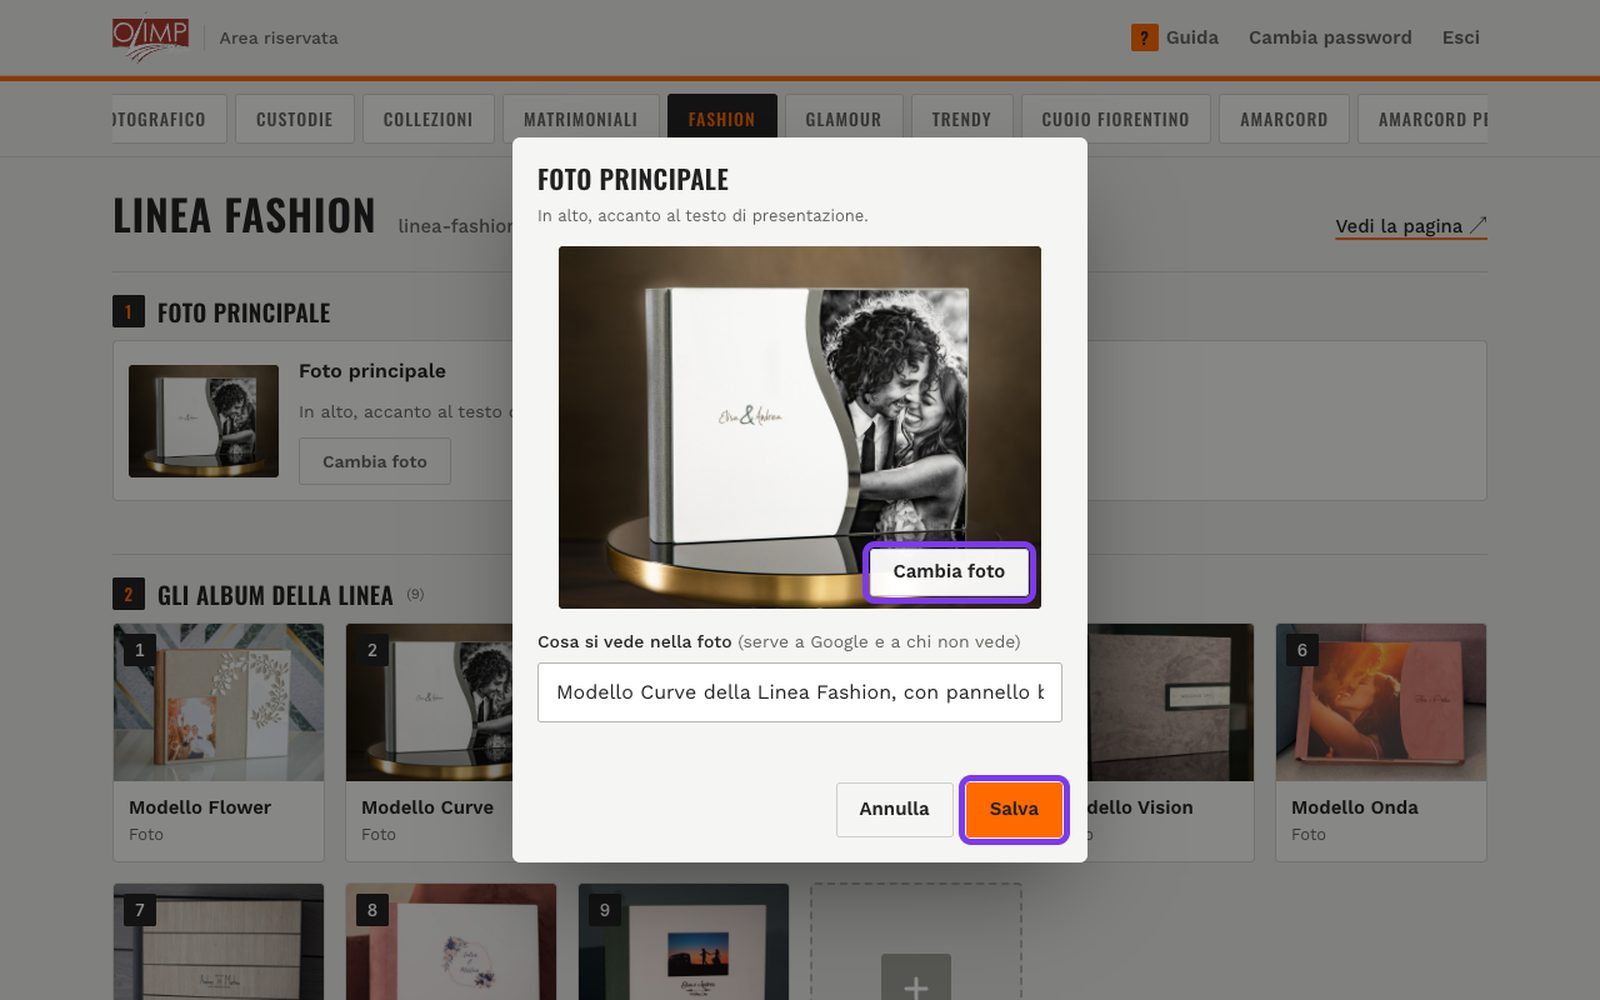
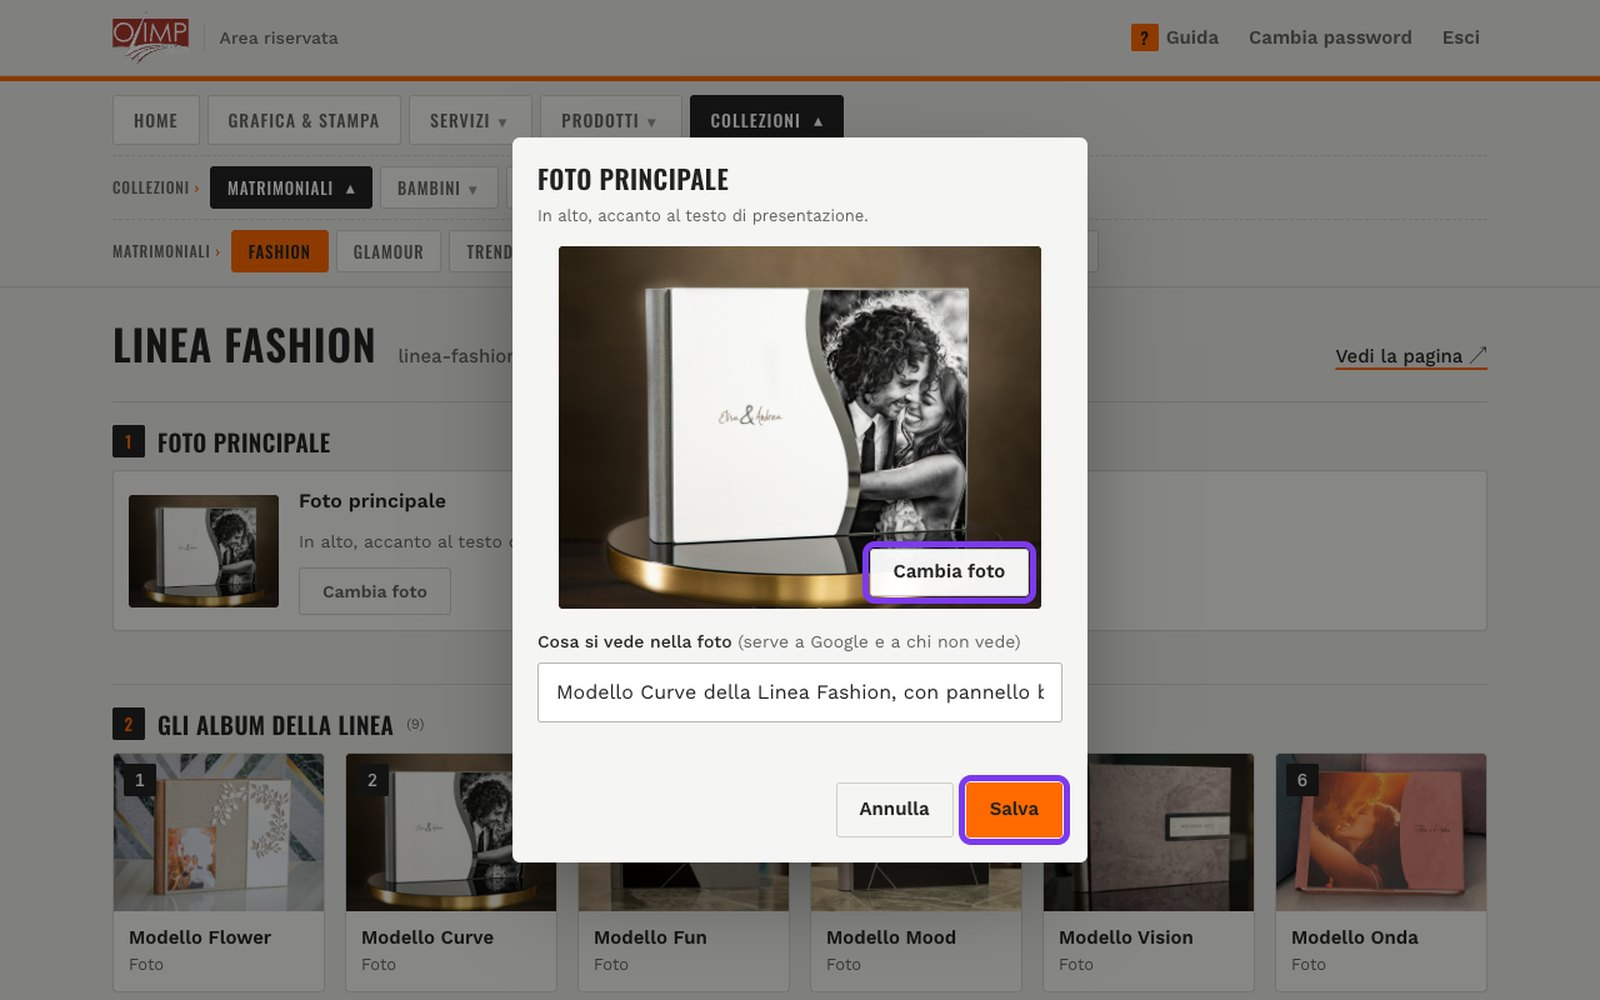
Area riservata: menu delle pagine a livelli come la navbar del sito (Collezioni → Matrimoniali → linee) e schermate della guida rifatte; Linea Fashion allineata all'ordine salvato dall'area riservata; versione 3.10 nel LEGGIMI

diff --git a/area-riservata.html b/area-riservata.html
@@ -247,6 +247,20 @@ body{font-family:var(--testo)}
 input[type=text],input[type=password]{border-radius:3px;background:#fff;border-color:#b9b9b3}
 .tab{border-radius:3px;font:500 14px/1 var(--head);text-transform:uppercase;letter-spacing:.07em}
 .tab[aria-selected="true"]{background:var(--ink);border-color:var(--ink);color:var(--acc)}
+/* menu a livelli come la navbar del sito: Collezioni → Matrimoniali → Fashion */
+.tabs .wrap{display:block;overflow:visible;padding:8px 0}
+.tabs .riga{display:flex;align-items:center;flex-wrap:wrap;gap:6px;padding:3px 0}
+/* sul telefono il menu non resta attaccato in alto: con le righe che vanno a capo coprirebbe troppo */
+@media (max-width:699px){.tabs{position:static}}
+.tabs .riga+.riga{border-top:1px dashed var(--line);margin-top:5px;padding-top:8px}
+.tabs .riga .dove{flex:none;font:500 12px/1 var(--head);text-transform:uppercase;letter-spacing:.07em;color:var(--mute);padding-right:2px}
+.tabs .riga .dove::after{content:" ›";color:var(--acc-d)}
+.tab .giu{display:inline-block;margin-left:6px;font-size:10px;opacity:.65;transition:transform 150ms ease}
+.tab.aperta{background:var(--ink);border-color:var(--ink);color:#fff}
+.tab.aperta .giu,.tab[aria-selected="true"] .giu{transform:rotate(180deg);opacity:1}
+.tabs .riga.sotto .tab{min-height:34px;padding:0 13px;font-size:13px}
+.tabs .riga.sotto .tab[aria-selected="true"]{background:var(--acc);border-color:var(--acc);color:var(--ink)}
+.tabs .riga.sotto .tab.aperta{background:var(--ink);border-color:var(--ink);color:#fff}
 .vedi{color:var(--ink);text-decoration:underline;text-decoration-color:var(--acc);text-decoration-thickness:2px;text-underline-offset:4px}
 .num{border-radius:2px;background:var(--ink);color:var(--acc);font-family:var(--head)}
 .slot{border-radius:4px}
@@ -345,7 +359,7 @@ input[type=text],input[type=password]{border-radius:3px;background:#fff;border-c
 
 <!-- pagine del sito: le sezioni le scrive lo script (PAGINE) -->
 <main id="vista-lavori" hidden>
-  <nav class="tabs" aria-label="Pagine del sito"><div class="wrap" id="tabs" role="tablist"></div></nav>
+  <nav class="tabs" aria-label="Pagine del sito"><div class="wrap" id="tabs"></div></nav>
   <div class="wrap" id="pagine">
     <p class="stato" id="stato" aria-live="polite"></p>
   </div>
@@ -443,36 +457,36 @@ input[type=text],input[type=password]{border-radius:3px;background:#fff;border-c
     <a href="#g-aggiungere">Aggiungere</a><a href="#g-riordinare">Riordinare</a><a href="#g-rinominare">Rinominare</a><a href="#g-eliminare">Eliminare</a><a href="#g-fisse">Foto fisse</a>
   </nav>
   <div class="g-corpo">
-    <p class="g-intro">In alto c'è una scheda per ogni pagina del sito. Le modifiche valgono solo per la pagina in cui le fai e si vedono online entro qualche minuto dal salvataggio. Questa guida si riapre quando vuoi dal pulsante <b>Guida</b> in alto. Clicca una schermata per ingrandirla. Dal telefono funziona allo stesso modo: al posto del clic si tocca con il dito.</p>
+    <p class="g-intro">In alto c'è il menu delle pagine, ordinato come quello del sito: Home, Grafica &amp; Stampa, Servizi, Prodotti e Collezioni; scegliendo una voce con la freccetta compaiono sotto le sue pagine. Le modifiche valgono solo per la pagina in cui le fai e si vedono online entro qualche minuto dal salvataggio. Questa guida si riapre quando vuoi dal pulsante <b>Guida</b> in alto. Clicca una schermata per ingrandirla. Dal telefono funziona allo stesso modo: al posto del clic si tocca con il dito.</p>
     <section class="g-sez" id="g-aggiungere" aria-labelledby="g-aggiungere-t">
       <h3 id="g-aggiungere-t">Aggiungere una foto</h3>
-      <div class="g-passo"><span class="num">1</span><p>In alto scegli la <b>pagina</b> del sito da modificare, per esempio <b>Fashion</b>.</p><a href="images/guida/tab.jpg" class="g-zoom" data-punti="41.25,8.75,7.66,6.25" aria-label="Ingrandisci la schermata"><img src="images/guida/tab.jpg" alt="La fila di schede in alto con Fashion evidenziato" width="1600" height="1000" loading="lazy" decoding="async"></a></div>
-      <div class="g-passo"><span class="num">2</span><p>Clicca la casella grigia con il <b>+</b>, in fondo alle foto della galleria (per esempio <b>Gli album della linea</b>). Si apre la finestra per scegliere il file: scegli la foto e clicca <b>Apri</b>.</p><a href="images/guida/piu.jpg" class="g-zoom" data-punti="50.16,50.50,14.06,26.25" aria-label="Ingrandisci la schermata"><img src="images/guida/piu.jpg" alt="La casella con il + in fondo alla galleria" width="1600" height="1000" loading="lazy" decoding="async"></a></div>
-      <div class="g-passo"><span class="num">3</span><p>Controlla l'anteprima, scrivi il <b>titolo</b> (il nome del modello, che compare sotto la foto) e clicca <b>Aggiungi</b>. Se hai sbagliato foto, clicca <b>Cambia foto</b>.</p><a href="images/guida/nuova.jpg" class="g-zoom" data-punti="33.12,67.00,33.59,7.25;58.13,79.00,8.59,6.75" aria-label="Ingrandisci la schermata"><img src="images/guida/nuova.jpg" alt="La finestra per aggiungere una foto, con il titolo scritto" width="1600" height="1000" loading="lazy" decoding="async"></a></div>
-      <div class="g-passo"><span class="num">4</span><p>La foto nuova lampeggia in arancio. Se vuoi spostarla, <b>tieni premuto il clic sulla foto e trascinala</b> nel posto che preferisci; altrimenti resta ultima. Poi clicca <b>Conferma e salva</b> nella barra in basso.</p><a href="images/guida/nuova-sel.jpg" class="g-zoom" data-punti="50.16,50.50,14.06,26.25;57.19,89.75,13.75,6.75" aria-label="Ingrandisci la schermata"><img src="images/guida/nuova-sel.jpg" alt="La foto nuova evidenziata e il pulsante Conferma e salva" width="1600" height="1000" loading="lazy" decoding="async"></a></div>
-      <div class="g-passo"><span class="num">5</span><p>Si apre la finestra del salvataggio: aspetta che la barra arrivi in fondo e clicca <b>OK</b>. Il sito si aggiorna da solo entro qualche minuto.</p><a href="images/guida/salvato.jpg" class="g-zoom" data-punti="44.84,60.00,10.16,6.75" aria-label="Ingrandisci la schermata"><img src="images/guida/salvato.jpg" alt="La finestra Salvataggio riuscito correttamente con il pulsante OK" width="1600" height="1000" loading="lazy" decoding="async"></a></div>
+      <div class="g-passo"><span class="num">1</span><p>In alto scegli la <b>pagina</b> del sito da modificare, per esempio <b>Collezioni</b>, poi <b>Matrimoniali</b>, poi <b>Fashion</b>.</p><a href="images/guida/tab.jpg" class="g-zoom" data-punti="42.66,8.75,10.55,6.50;12.66,15.88,11.09,5.75;13.98,22.25,7.03,5.75" aria-label="Ingrandisci la schermata"><img src="images/guida/tab.jpg" alt="Il menu delle pagine in alto con Collezioni, Matrimoniali e Fashion evidenziati" width="1600" height="1000" loading="lazy" decoding="async"></a></div>
+      <div class="g-passo"><span class="num">2</span><p>Clicca la casella grigia con il <b>+</b>, in fondo alle foto della galleria (per esempio <b>Gli album della linea</b>). Si apre la finestra per scegliere il file: scegli la foto e clicca <b>Apri</b>.</p><a href="images/guida/piu.jpg" class="g-zoom" data-punti="50.16,63.38,14.22,26.50" aria-label="Ingrandisci la schermata"><img src="images/guida/piu.jpg" alt="La casella con il + in fondo alla galleria" width="1600" height="1000" loading="lazy" decoding="async"></a></div>
+      <div class="g-passo"><span class="num">3</span><p>Controlla l'anteprima, scrivi il <b>titolo</b> (il nome del modello, che compare sotto la foto) e clicca <b>Aggiungi</b>. Se hai sbagliato foto, clicca <b>Cambia foto</b>.</p><a href="images/guida/nuova.jpg" class="g-zoom" data-punti="33.12,66.88,33.75,7.50;58.13,78.88,8.75,7.00" aria-label="Ingrandisci la schermata"><img src="images/guida/nuova.jpg" alt="La finestra per aggiungere una foto, con il titolo scritto" width="1600" height="1000" loading="lazy" decoding="async"></a></div>
+      <div class="g-passo"><span class="num">4</span><p>La foto nuova lampeggia in arancio. Se vuoi spostarla, <b>tieni premuto il clic sulla foto e trascinala</b> nel posto che preferisci; altrimenti resta ultima. Poi clicca <b>Conferma e salva</b> nella barra in basso.</p><a href="images/guida/nuova-sel.jpg" class="g-zoom" data-punti="79.22,37.38,14.22,25.50;57.19,89.75,13.91,7.00" aria-label="Ingrandisci la schermata"><img src="images/guida/nuova-sel.jpg" alt="La foto nuova evidenziata e il pulsante Conferma e salva" width="1600" height="1000" loading="lazy" decoding="async"></a></div>
+      <div class="g-passo"><span class="num">5</span><p>Si apre la finestra del salvataggio: aspetta che la barra arrivi in fondo e clicca <b>OK</b>. Il sito si aggiorna da solo entro qualche minuto.</p><a href="images/guida/salvato.jpg" class="g-zoom" data-punti="44.84,60.00,10.31,7.00" aria-label="Ingrandisci la schermata"><img src="images/guida/salvato.jpg" alt="La finestra Salvataggio riuscito correttamente con il pulsante OK" width="1600" height="1000" loading="lazy" decoding="async"></a></div>
     </section>
     <section class="g-sez" id="g-riordinare" aria-labelledby="g-riordinare-t">
       <h3 id="g-riordinare-t">Riordinare le foto</h3>
-      <div class="g-passo"><span class="num">1</span><p>Clicca la foto da spostare: si accende in arancio e le altre diventano più chiare.</p><a href="images/guida/scegli.jpg" class="g-zoom" data-punti="35.62,24.50,14.06,25.25" aria-label="Ingrandisci la schermata"><img src="images/guida/scegli.jpg" alt="Una foto selezionata in arancio, le altre più chiare" width="1600" height="1000" loading="lazy" decoding="async"></a></div>
-      <div class="g-passo"><span class="num">2</span><p><b>Tieni premuto il clic sulla foto e trascinala</b> dove vuoi, dentro la stessa galleria. Il numero in alto a sinistra indica il posto. Poi clicca <b>Conferma</b>.</p><a href="images/guida/spostata.jpg" class="g-zoom" data-punti="6.56,24.50,14.06,25.25;61.56,89.75,9.38,6.75" aria-label="Ingrandisci la schermata"><img src="images/guida/spostata.jpg" alt="La foto spostata al posto 1 e il pulsante Conferma" width="1600" height="1000" loading="lazy" decoding="async"></a></div>
+      <div class="g-passo"><span class="num">1</span><p>Clicca la foto da spostare: si accende in arancio e le altre diventano più chiare.</p><a href="images/guida/scegli.jpg" class="g-zoom" data-punti="35.62,37.38,14.22,25.50" aria-label="Ingrandisci la schermata"><img src="images/guida/scegli.jpg" alt="Una foto selezionata in arancio, le altre più chiare" width="1600" height="1000" loading="lazy" decoding="async"></a></div>
+      <div class="g-passo"><span class="num">2</span><p><b>Tieni premuto il clic sulla foto e trascinala</b> dove vuoi, dentro la stessa galleria. Il numero in alto a sinistra indica il posto. Poi clicca <b>Conferma</b>.</p><a href="images/guida/spostata.jpg" class="g-zoom" data-punti="6.56,37.38,14.22,25.50;61.56,89.75,9.53,7.00" aria-label="Ingrandisci la schermata"><img src="images/guida/spostata.jpg" alt="La foto spostata al posto 1 e il pulsante Conferma" width="1600" height="1000" loading="lazy" decoding="async"></a></div>
       <p class="g-nota">Hai cambiato idea? Clicca <b>Annulla</b> e la foto torna dov'era, senza salvare nulla. Finché non scegli <b>Conferma</b> o <b>Annulla</b> il resto della pagina è bloccato: se clicchi altrove, la barra in basso lampeggia per ricordartelo.</p>
     </section>
     <section class="g-sez" id="g-rinominare" aria-labelledby="g-rinominare-t">
       <h3 id="g-rinominare-t">Rinominare una foto</h3>
-      <div class="g-passo"><span class="num">1</span><p>Clicca la foto, poi clicca <b>Modifica o elimina</b> nella barra in basso.</p><a href="images/guida/modifica.jpg" class="g-zoom" data-punti="35.16,89.75,14.37,6.75" aria-label="Ingrandisci la schermata"><img src="images/guida/modifica.jpg" alt="La barra in basso con il pulsante Modifica o elimina" width="1600" height="1000" loading="lazy" decoding="async"></a></div>
-      <div class="g-passo"><span class="num">2</span><p>Correggi il <b>titolo</b> e clicca <b>Salva</b>. Da qui puoi anche cambiare la foto con <b>Cambia foto</b>.</p><a href="images/guida/rinomina.jpg" class="g-zoom" data-punti="33.12,65.25,33.59,7.25;60.00,77.25,6.72,6.75" aria-label="Ingrandisci la schermata"><img src="images/guida/rinomina.jpg" alt="La finestra di modifica con il titolo cambiato e il pulsante Salva" width="1600" height="1000" loading="lazy" decoding="async"></a></div>
+      <div class="g-passo"><span class="num">1</span><p>Clicca la foto, poi clicca <b>Modifica o elimina</b> nella barra in basso.</p><a href="images/guida/modifica.jpg" class="g-zoom" data-punti="35.16,89.75,14.45,7.00" aria-label="Ingrandisci la schermata"><img src="images/guida/modifica.jpg" alt="La barra in basso con il pulsante Modifica o elimina" width="1600" height="1000" loading="lazy" decoding="async"></a></div>
+      <div class="g-passo"><span class="num">2</span><p>Correggi il <b>titolo</b> e clicca <b>Salva</b>. Da qui puoi anche cambiare la foto con <b>Cambia foto</b>.</p><a href="images/guida/rinomina.jpg" class="g-zoom" data-punti="33.12,65.25,33.75,7.50;59.92,77.25,6.95,7.00" aria-label="Ingrandisci la schermata"><img src="images/guida/rinomina.jpg" alt="La finestra di modifica con il titolo cambiato e il pulsante Salva" width="1600" height="1000" loading="lazy" decoding="async"></a></div>
     </section>
     <section class="g-sez" id="g-eliminare" aria-labelledby="g-eliminare-t">
       <h3 id="g-eliminare-t">Eliminare una foto</h3>
       <div class="g-passo solo-testo"><span class="num">1</span><p>Clicca la foto, poi clicca <b>Modifica o elimina</b> nella barra in basso (come per rinominare).</p></div>
-      <div class="g-passo"><span class="num">2</span><p>Clicca <b>Elimina</b> in basso a sinistra nella finestra. Il pulsante diventa rosso con scritto <b>Sì, elimina</b>: cliccalo di nuovo per confermare.</p><a href="images/guida/elimina.jpg" class="g-zoom" data-punti="33.12,77.25,9.84,6.75" aria-label="Ingrandisci la schermata"><img src="images/guida/elimina.jpg" alt="Il pulsante rosso Sì, elimina" width="1600" height="1000" loading="lazy" decoding="async"></a></div>
+      <div class="g-passo"><span class="num">2</span><p>Clicca <b>Elimina</b> in basso a sinistra nella finestra. Il pulsante diventa rosso con scritto <b>Sì, elimina</b>: cliccalo di nuovo per confermare.</p><a href="images/guida/elimina.jpg" class="g-zoom" data-punti="33.12,77.25,9.92,7.00" aria-label="Ingrandisci la schermata"><img src="images/guida/elimina.jpg" alt="Il pulsante rosso Sì, elimina" width="1600" height="1000" loading="lazy" decoding="async"></a></div>
       <p class="g-nota rossa">L'eliminazione è definitiva: la foto sparisce dal sito. Se non clicchi «Sì, elimina» non succede nulla.</p>
     </section>
     <section class="g-sez" id="g-fisse" aria-labelledby="g-fisse-t">
       <h3 id="g-fisse-t">Cambiare le foto fisse</h3>
-      <div class="g-passo"><span class="num">1</span><p>Le altre foto delle pagine (la foto principale accanto al testo, i riquadri delle linee e dei prodotti, le strisce delle collezioni) hanno un posto fisso: clicca <b>Cambia foto</b> accanto a quella da cambiare.</p><a href="images/guida/fissa.jpg" class="g-zoom" data-punti="18.28,43.00,10.31,6.00" aria-label="Ingrandisci la schermata"><img src="images/guida/fissa.jpg" alt="Una foto fissa con il pulsante Cambia foto" width="1600" height="1000" loading="lazy" decoding="async"></a></div>
-      <div class="g-passo"><span class="num">2</span><p>Nella finestra clicca <b>Cambia foto</b> e scegli quella nuova. Scrivi in breve cosa si vede (serve a Google) e clicca <b>Salva</b>.</p><a href="images/guida/fissa-scheda.jpg" class="g-zoom" data-punti="53.91,54.25,10.78,6.00;60.00,77.50,6.72,6.75" aria-label="Ingrandisci la schermata"><img src="images/guida/fissa-scheda.jpg" alt="La finestra per cambiare una foto, con Cambia foto e Salva evidenziati" width="1600" height="1000" loading="lazy" decoding="async"></a></div>
+      <div class="g-passo"><span class="num">1</span><p>Le altre foto delle pagine (la foto principale accanto al testo, i riquadri delle linee e dei prodotti, le strisce delle collezioni) hanno un posto fisso: clicca <b>Cambia foto</b> accanto a quella da cambiare.</p><a href="images/guida/fissa.jpg" class="g-zoom" data-punti="18.20,56.00,10.47,6.25" aria-label="Ingrandisci la schermata"><img src="images/guida/fissa.jpg" alt="Una foto fissa con il pulsante Cambia foto" width="1600" height="1000" loading="lazy" decoding="async"></a></div>
+      <div class="g-passo"><span class="num">2</span><p>Nella finestra clicca <b>Cambia foto</b> e scegli quella nuova. Scrivi in breve cosa si vede (serve a Google) e clicca <b>Salva</b>.</p><a href="images/guida/fissa-scheda.jpg" class="g-zoom" data-punti="53.91,54.12,10.86,6.25;59.92,77.50,6.95,7.00" aria-label="Ingrandisci la schermata"><img src="images/guida/fissa-scheda.jpg" alt="La finestra per cambiare una foto, con Cambia foto e Salva evidenziati" width="1600" height="1000" loading="lazy" decoding="async"></a></div>
       <p class="g-nota">Ogni pagina è indipendente: una foto cambiata in una pagina resta uguale in tutte le altre (per esempio la striscia «Album eventi» della Home e quella di Collezioni si cambiano separatamente).</p>
     </section>
   </div>
@@ -600,14 +614,43 @@ input[type=text],input[type=password]{border-radius:3px;background:#fff;border-c
     };
   }
 
-  /* ---------- schede delle pagine ---------- */
+  /* ---------- schede delle pagine: menu a livelli come la navbar del sito ----------
+     Prima riga: Home, Grafica & Stampa, Servizi, Prodotti, Collezioni. Scegliendo una pagina che ha
+     sottopagine compare sotto la riga successiva (es. Collezioni → Matrimoniali → le linee). */
+  var GENITORE = {
+    'sezione-sposi.html': 'servizi.html', 'sezione-fotografi.html': 'servizi.html',
+    'fotolibro-professionale.html': 'prodotti.html', 'album-tradizionale-professionale.html': 'prodotti.html',
+    'prodotti-studio-fotografico.html': 'prodotti.html', 'custodie-per-album.html': 'prodotti.html',
+    'album-matrimoniali.html': 'collezioni.html', 'album-bambini.html': 'collezioni.html',
+    'album-comunione.html': 'collezioni.html', 'album-eventi.html': 'collezioni.html',
+    'linea-fashion.html': 'album-matrimoniali.html', 'linea-glamour.html': 'album-matrimoniali.html',
+    'linea-trendy.html': 'album-matrimoniali.html', 'linea-cuoio-fiorentino.html': 'album-matrimoniali.html',
+    'linea-cuoio-amarcord-islandese.html': 'album-matrimoniali.html',
+    'linea-cuoio-amarcord-islandese-personalizzato.html': 'album-matrimoniali.html',
+    'album-bambini-deluxe.html': 'album-bambini.html', 'album-bambini-baby.html': 'album-bambini.html',
+    'album-bambini-new-born.html': 'album-bambini.html'
+  };
+  var ORDINE_PRIMA = ['index.html', 'grafica-stampa.html', 'servizi.html', 'prodotti.html', 'collezioni.html'];
+  var NOME = {}; PAGINE.forEach(function (p) { NOME[p[0]] = p[1]; });
+  function figli(id) { return PAGINE.filter(function (p) { return (GENITORE[p[0]] || '') === id; }).map(function (p) { return p[0]; }); }
+  function catena(id) { var c = [id]; while (GENITORE[c[0]]) c.unshift(GENITORE[c[0]]); return c; }
+  var RIGHE = {}; // genitore ('' = prima riga) → riga
+  function riga(gen) {
+    if (RIGHE[gen]) return RIGHE[gen];
+    var r = document.createElement('div'); r.className = 'riga' + (gen ? ' sotto' : ''); r.setAttribute('role', 'tablist');
+    r.setAttribute('aria-label', gen ? 'Pagine dentro ' + NOME[gen] : 'Pagine principali');
+    if (gen) { var d = document.createElement('span'); d.className = 'dove'; d.textContent = NOME[gen]; r.appendChild(d); }
+    r.hidden = !!gen; RIGHE[gen] = r; return r;
+  }
+  [''].concat(PAGINE.map(function (p) { return p[0]; })).forEach(function (g) { if (!g || figli(g).length) $('tabs').appendChild(riga(g)); });
   var SEZIONI = {}; // galleria → sezione
   var tabAttiva = mem.get('ar-tab') || 'index.html';
   PAGINE.forEach(function (p) {
     var b = document.createElement('button'); b.type = 'button'; b.className = 'tab'; b.setAttribute('role', 'tab');
     b.id = 'tab-' + p[0]; b.dataset.pag = p[0]; b.setAttribute('aria-controls', 'pag-' + p[0]); b.textContent = p[1];
+    if (figli(p[0]).length) { var gi = document.createElement('span'); gi.className = 'giu'; gi.setAttribute('aria-hidden', 'true'); gi.textContent = '▼'; b.appendChild(gi); }
     b.onclick = function () { mostraPagina(p[0]); };
-    $('tabs').appendChild(b);
+    riga(GENITORE[p[0]] || '').appendChild(b);
     var s = document.createElement('section'); s.className = 'pag'; s.id = 'pag-' + p[0]; s.setAttribute('role', 'tabpanel'); s.hidden = true;
     s.setAttribute('aria-labelledby', b.id);
     var h = document.createElement('div'); h.className = 'pag-head';
@@ -632,19 +675,25 @@ input[type=text],input[type=password]{border-radius:3px;background:#fff;border-c
     });
     s.appendChild(ol); $('pagine').appendChild(s);
   });
+  ORDINE_PRIMA.forEach(function (id) { RIGHE[''].appendChild($('tab-' + id)); }); // stesso ordine della navbar del sito
   function mostraPagina(id) {
     if (sel) confermaScelta(); // cambiando pagina la foto selezionata resta dov'è
     if (!$('pag-' + id)) id = 'index.html';
     tabAttiva = id; mem.set('ar-tab', id);
+    var c = catena(id);
     PAGINE.forEach(function (p) {
       $('pag-' + p[0]).hidden = p[0] !== id;
       $('tab-' + p[0]).setAttribute('aria-selected', String(p[0] === id));
+      $('tab-' + p[0]).classList.toggle('aperta', p[0] !== id && c.indexOf(p[0]) >= 0);
     });
+    Object.keys(RIGHE).forEach(function (g) { RIGHE[g].hidden = !!g && c.indexOf(g) < 0; });
     centraTab();
     window.scrollTo(0, 0);
   }
-  function centraTab() { // la scheda scelta resta visibile nella fila in alto (che scorre di lato)
-    var t = $('tab-' + tabAttiva); if (t) t.parentNode.scrollLeft = t.offsetLeft - t.parentNode.offsetLeft - (t.parentNode.clientWidth - t.offsetWidth) / 2;
+  function centraTab() { // in ogni riga la scheda scelta (o aperta) resta visibile (le righe scorrono di lato)
+    catena(tabAttiva).forEach(function (id) {
+      var t = $('tab-' + id); if (t) t.parentNode.scrollLeft = t.offsetLeft - t.parentNode.offsetLeft - (t.parentNode.clientWidth - t.offsetWidth) / 2;
+    });
   }
   mostraPagina(tabAttiva);
 

diff --git a/linea-fashion.html b/linea-fashion.html
@@ -91,8 +91,8 @@
           <figure class="ph"><img src="images/linea-fashion/modello-vision.jpg" alt="Modello Vision della Linea Fashion, in suede tortora con targhetta «Wedding Day»" loading="lazy"><figcaption>Modello Vision</figcaption></figure>
           <figure class="ph"><img src="images/linea-fashion/modello-onda.jpg" alt="Modello Onda della Linea Fashion, in suede rosa con foto degli sposi e nomi «Silvia e Andrea»" loading="lazy"><figcaption>Modello Onda</figcaption></figure>
           <figure class="ph"><img src="images/linea-fashion/modello-split.jpg" alt="Modello Split della Linea Fashion, effetto legno a doghe con nomi «Andrea and Martina»" loading="lazy"><figcaption>Modello Split</figcaption></figure>
-          <figure class="ph"><img src="images/linea-fashion/modello-parigi.jpg" alt="Modello Parigi della Linea Fashion, con copertina bianca, cornice floreale e dorso in suede rosa" loading="lazy"><figcaption>Modello Parigi</figcaption></figure>
           <figure class="ph"><img src="images/linea-fashion/modello-vienna.jpg" alt="Modello Vienna della Linea Fashion, con copertina bianca, foto al tramonto e dorso in tela verde" loading="lazy"><figcaption>Modello Vienna</figcaption></figure>
+          <figure class="ph"><img src="images/linea-fashion/modello-parigi.jpg" alt="Modello Parigi della Linea Fashion, con copertina bianca, cornice floreale e dorso in suede rosa" loading="lazy"><figcaption>Modello Parigi</figcaption></figure>
           <!-- galleria:fine -->
         </div>
       </div>
